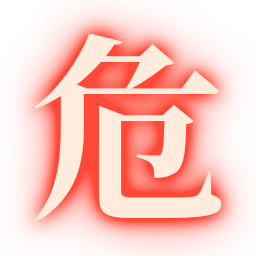
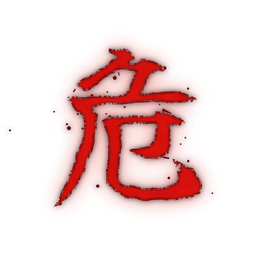
Знаки кистью (Yuji Boku, OFL): 忍殺 при добивании проявляется мазком, 危 и 斬 в том же стиле — рваный край, сухая кисть, брызги туши
Claude-Session: https://claude.ai/code/session_01JqUpyqddoJCmPqfiUgmopw

diff --git a/tools/texgen/brush_glyphs.py b/tools/texgen/brush_glyphs.py
@@ -1,0 +1,113 @@
+"""Красные кандзи кистью для HUD (как 忍殺 / 危 в Sekiro): шрифт Yuji Boku (SIL OFL, google/fonts),
+рваный край, сухая кисть на концах штрихов, брызги туши, тёмная тень и красное свечение для читаемости на светлом сёдзи.
+
+    python3 tools/texgen/brush_glyphs.py <YujiBoku-Regular.ttf> <out_dir>
+
+Выход: deathblow.png (忍殺, широкая), zan.png (斬), kiken.png (危) — RGBA, прямая альфа.
+"""
+import sys, os
+import numpy as np
+from PIL import Image, ImageDraw, ImageFont, ImageFilter
+from scipy import ndimage
+
+FONT, OUT = sys.argv[1], sys.argv[2]
+rng = np.random.default_rng(7)
+
+
+def noise(h, w, scale, octaves=4, stretch=(1.0, 1.0)):
+    """Гладкий шум (сумма октав увеличенного белого шума), stretch — вытянутость по (y, x)."""
+    acc = np.zeros((h, w), np.float32); amp = 1.0; tot = 0.0
+    for o in range(octaves):
+        s = scale / (2 ** o)
+        gh, gw = max(2, int(h / (s * stretch[0])) + 2), max(2, int(w / (s * stretch[1])) + 2)
+        g = rng.random((gh, gw)).astype(np.float32)
+        up = np.array(Image.fromarray((g * 255).astype(np.uint8)).resize((w, h), Image.BICUBIC), np.float32) / 255.0
+        acc += amp * up; tot += amp; amp *= 0.5
+    return acc / tot
+
+
+def glyph(text, size_px, pad):
+    ss = 2   # сглаживание: рисуем вдвое крупнее
+    ft = ImageFont.truetype(FONT, size_px * ss)
+    l, t, r, b = ft.getbbox(text)
+    W, H = (r - l) + 2 * pad * ss, (b - t) + 2 * pad * ss
+    im = Image.new("L", (W, H), 0)
+    ImageDraw.Draw(im).text((pad * ss - l, pad * ss - t), text, font=ft, fill=255)
+    m = np.array(im, np.float32) / 255.0
+    h, w = m.shape
+    # рваный край: искажение маски шумом (кисть, впитавшаяся бумага)
+    dx = (noise(h, w, 18 * ss) - 0.5) * 7 * ss
+    dy = (noise(h, w, 18 * ss) - 0.5) * 7 * ss
+    yy, xx = np.mgrid[0:h, 0:w].astype(np.float32)
+    m = ndimage.map_coordinates(m, [yy + dy, xx + dx], order=1, mode="constant")
+    # сухая кисть: у краёв штриха и на «хвостах» тушь рвётся вытянутыми полосами
+    inside = ndimage.distance_transform_edt(m > 0.5)
+    streak = noise(h, w, 10 * ss, octaves=3, stretch=(0.25, 3.0))   # полосы по горизонтали (ход кисти)
+    streak2 = noise(h, w, 10 * ss, octaves=3, stretch=(3.0, 0.25))  # и по вертикали
+    st = np.maximum(streak, streak2)
+    edge = np.clip(inside / (9.0 * ss), 0.0, 1.0)                    # 0 у края → 1 внутри штриха
+    dry = np.clip((st - 0.42) * 4.0, 0.0, 1.0)
+    a = m * np.clip(edge * 1.4 + dry * (1.0 - edge) * 1.2 - (1.0 - edge) * 0.25, 0.0, 1.0)
+    a = np.where(inside > 3.5 * ss, m, a)   # сердцевина штриха — сплошная
+    # брызги туши вокруг
+    spl = Image.new("L", (w, h), 0); dr = ImageDraw.Draw(spl)
+    ys, xs = np.nonzero(m > 0.5)
+    for _ in range(int(60 * w / (600 * ss))):
+        k = rng.integers(len(xs)); cx, cy = xs[k], ys[k]
+        ang = rng.random() * 2 * np.pi; dist = (8 + rng.pareto(2.2) * 26) * ss
+        px, py = cx + np.cos(ang) * dist, cy + np.sin(ang) * dist
+        rad = min(3.2 * ss, max(1.0, (rng.pareto(2.6) * 2.2 + 1.0) * ss))   # мелкие брызги, без клякс
+        if rng.random() < 0.18:   # вытянутая капля по направлению разлёта
+            ex, ey = np.cos(ang) * rad * 2.6, np.sin(ang) * rad * 2.6
+            dr.line([(px - ex, py - ey), (px + ex, py + ey)], fill=255, width=int(rad * 1.3) + 1)
+        else:
+            dr.ellipse([px - rad, py - rad, px + rad, py + rad], fill=255)
+    s = np.array(spl, np.float32) / 255.0
+    s *= np.clip(1.0 - m * 2, 0, 1)
+    a = np.clip(np.maximum(a, s * 0.95), 0.0, 1.0)
+    # вниз до целевого размера
+    A = np.array(Image.fromarray((a * 255).astype(np.uint8)).resize((w // ss, h // ss), Image.LANCZOS), np.float32) / 255.0
+    core = np.array(Image.fromarray((np.clip(inside / (6.0 * ss), 0, 1) * 255).astype(np.uint8)).resize((w // ss, h // ss), Image.LANCZOS), np.float32) / 255.0
+    return A, core
+
+
+def compose(A, core):
+    h, w = A.shape
+    tone = noise(h, w, 30, octaves=3)
+    # тушь: насыщенный киноварный в сердцевине, темнее и суше к краю
+    base = np.stack([0.78 + 0.1 * tone, 0.05 + 0.03 * tone, 0.04 + 0.02 * tone], -1)
+    dark = np.array([0.40, 0.02, 0.02])
+    k = np.clip(core, 0, 1)[..., None]
+    col = dark * (1 - k) + base * k
+    # тень (чтобы читалось на светлых сёдзи) и тлеющее красное свечение
+    shadow = np.array(Image.fromarray((A * 255).astype(np.uint8)).filter(ImageFilter.GaussianBlur(w / 90)), np.float32) / 255.0
+    glow = np.array(Image.fromarray((A * 255).astype(np.uint8)).filter(ImageFilter.GaussianBlur(w / 28)), np.float32) / 255.0
+    sa = np.clip(shadow * 0.75, 0, 1); ga = np.clip(glow * 0.55, 0, 1)
+    # слои снизу вверх: свечение (красное) → тень (почти чёрная) → тушь
+    out_c = np.zeros((h, w, 3)); out_a = np.zeros((h, w))
+    for c_, a_ in ((np.array([0.85, 0.08, 0.04]), ga), (np.array([0.05, 0.0, 0.0]), sa)):
+        out_c = c_ * a_[..., None] + out_c * (1 - a_[..., None]); out_a = a_ + out_a * (1 - a_)
+    out_c = col * A[..., None] + out_c * (1 - A[..., None]); out_a = A + out_a * (1 - A)
+    # прямая альфа: цвет делим обратно
+    straight = np.where(out_a[..., None] > 1e-4, out_c / np.maximum(out_a[..., None], 1e-4), 0)
+    rgba = np.concatenate([np.clip(straight, 0, 1), out_a[..., None]], -1)
+    return Image.fromarray((rgba * 255).astype(np.uint8), "RGBA")
+
+
+def make(text, size_px, pad, name, square=False):
+    A, core = glyph(text, size_px, pad)
+    im = compose(A, core)
+    # холст в степень двойки с теми же пропорциями (Unity растягивает NPOT-текстуры): квадрат 256 или 2:1 1024×512
+    tw, th = (256, 256) if square else (1024, 512)
+    s = max(im.size[0] / tw, im.size[1] / th)
+    cw, ch = int(round(tw * s)), int(round(th * s))
+    sq = Image.new("RGBA", (cw, ch), (0, 0, 0, 0))
+    sq.paste(im, ((cw - im.size[0]) // 2, (ch - im.size[1]) // 2)); im = sq.resize((tw, th), Image.LANCZOS)
+    im.save(os.path.join(OUT, name))
+    print(name, im.size)
+
+
+os.makedirs(OUT, exist_ok=True)
+make("忍殺", 300, 70, "deathblow.png")
+make("斬", 300, 70, "zan.png", square=True)
+make("危", 300, 70, "kiken.png", square=True)

diff --git a/Assets/_Project/Scripts/Game/DuelHud.cs b/Assets/_Project/Scripts/Game/DuelHud.cs
@@ -151,10 +151,15 @@ namespace BladePath
                     DrawGlyph("UI/kiken", new Vector2(g.x / UiKit.Scale, (Screen.height - g.y) / UiKit.Scale), sz, a);
                 }
                 float da = Time.unscaledTime - duel.DeathblowAt;
-                if (da < 1.4f)
+                if (da < 1.9f)
                 {
+                    // 忍殺: кисть проводит знак слева направо за 0,22 с, лёгкий «удар» масштабом, держится и гаснет
                     Vector3 g = cam.WorldToScreenPoint(duel.DeathblowPos);
-                    if (g.z > 0f) DrawGlyph("UI/zan", new Vector2(g.x / UiKit.Scale, (Screen.height - g.y) / UiKit.Scale - 30f), 150f * (1f + 0.6f * Mathf.Max(0f, 0.2f - da)), Mathf.Clamp01((1.4f - da) / 0.5f));
+                    if (g.z > 0f)
+                    {
+                        float pop = 1f + 0.18f * Mathf.Max(0f, 0.22f - da) / 0.22f;
+                        DrawBrush("UI/deathblow", new Vector2(g.x / UiKit.Scale, (Screen.height - g.y) / UiKit.Scale - 70f), 170f * pop, Mathf.Clamp01((1.9f - da) / 0.45f), Mathf.Clamp01(da / 0.22f));
+                    }
                 }
             }
 
@@ -347,6 +352,18 @@ namespace BladePath
                 }
             t.SetPixels(px); t.Apply();
             return t;
+        }
+
+        /// <summary>Знак кистью с проявлением слева направо (reveal 0…1), высота h, ширина — по пропорциям текстуры.</summary>
+        static void DrawBrush(string tex, Vector2 c, float h, float alpha, float reveal)
+        {
+            Texture2D t = UiKit.Tex(tex);
+            if (t == null || alpha <= 0.01f || reveal <= 0.001f) return;
+            float w = h * t.width / Mathf.Max(1f, t.height);
+            reveal = 1f - (1f - reveal) * (1f - reveal);   // кисть быстро входит и замедляется к концу
+            Color o = GUI.color; GUI.color = new Color(1f, 1f, 1f, alpha);
+            GUI.DrawTextureWithTexCoords(new Rect(c.x - w * 0.5f, c.y - h * 0.5f, w * reveal, h), t, new Rect(0f, 0f, reveal, 1f));
+            GUI.color = o;
         }
 
         static void DrawGlyph(string tex, Vector2 c, float size, float alpha)
